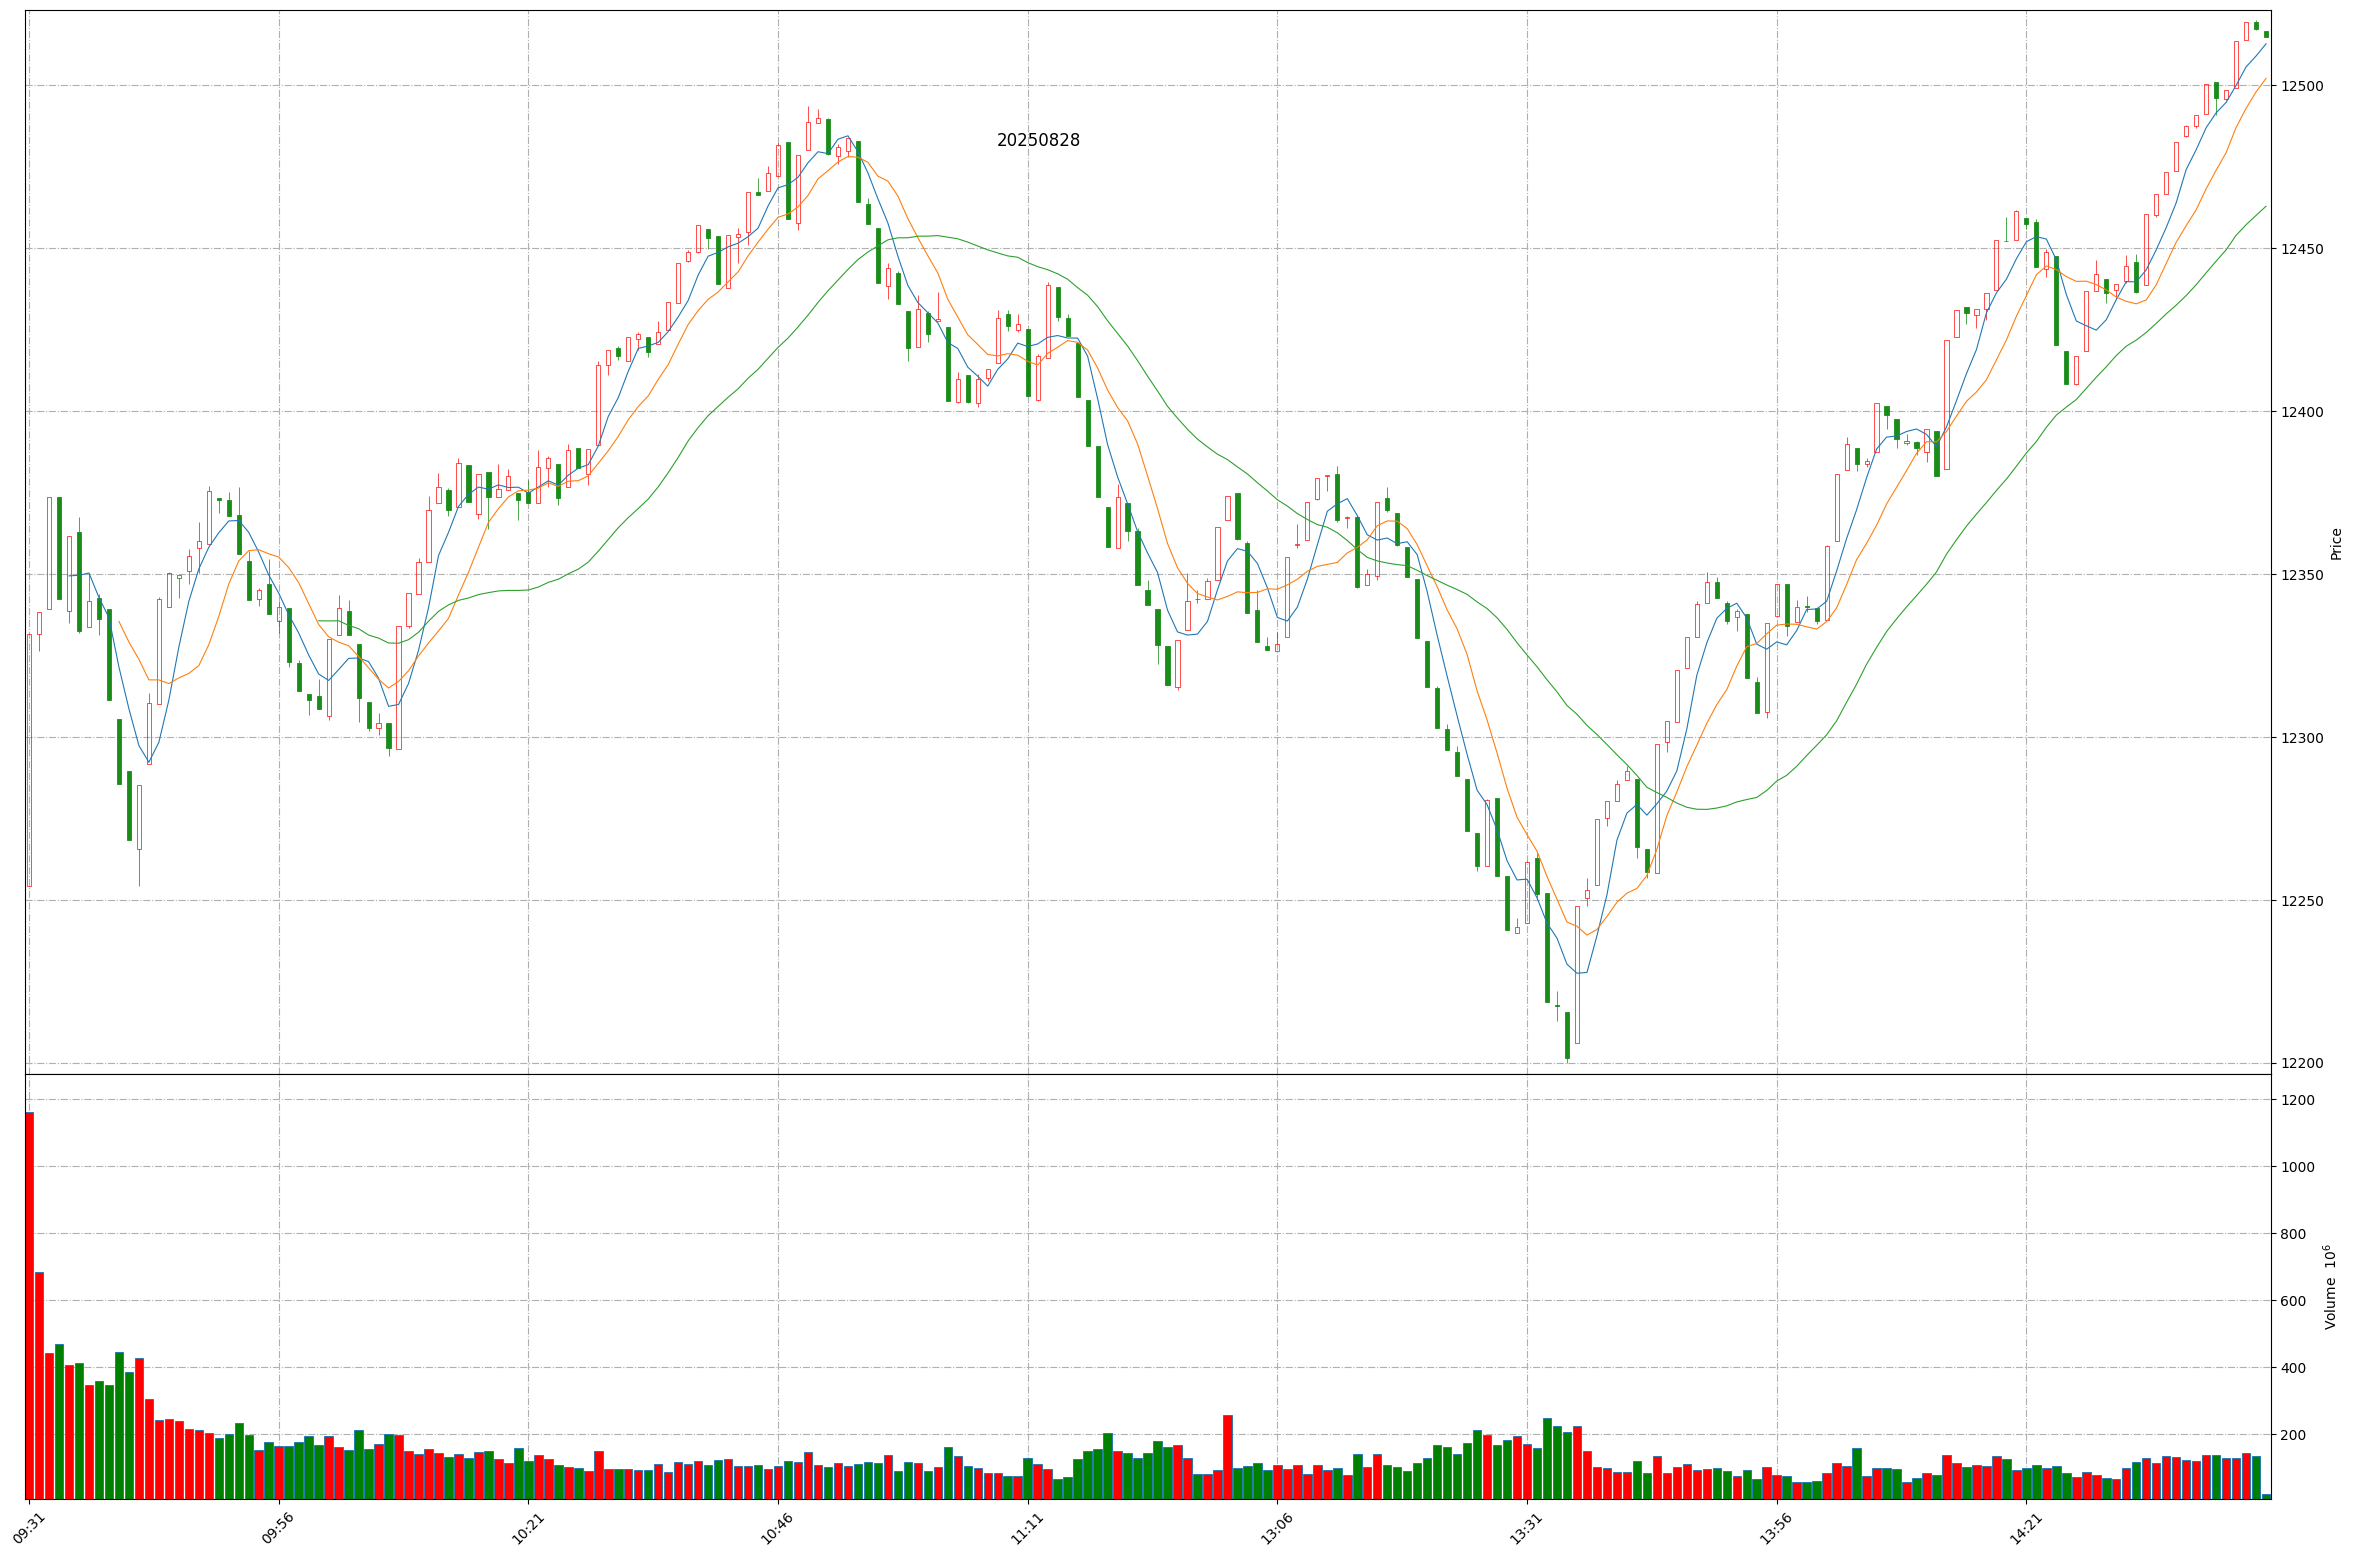
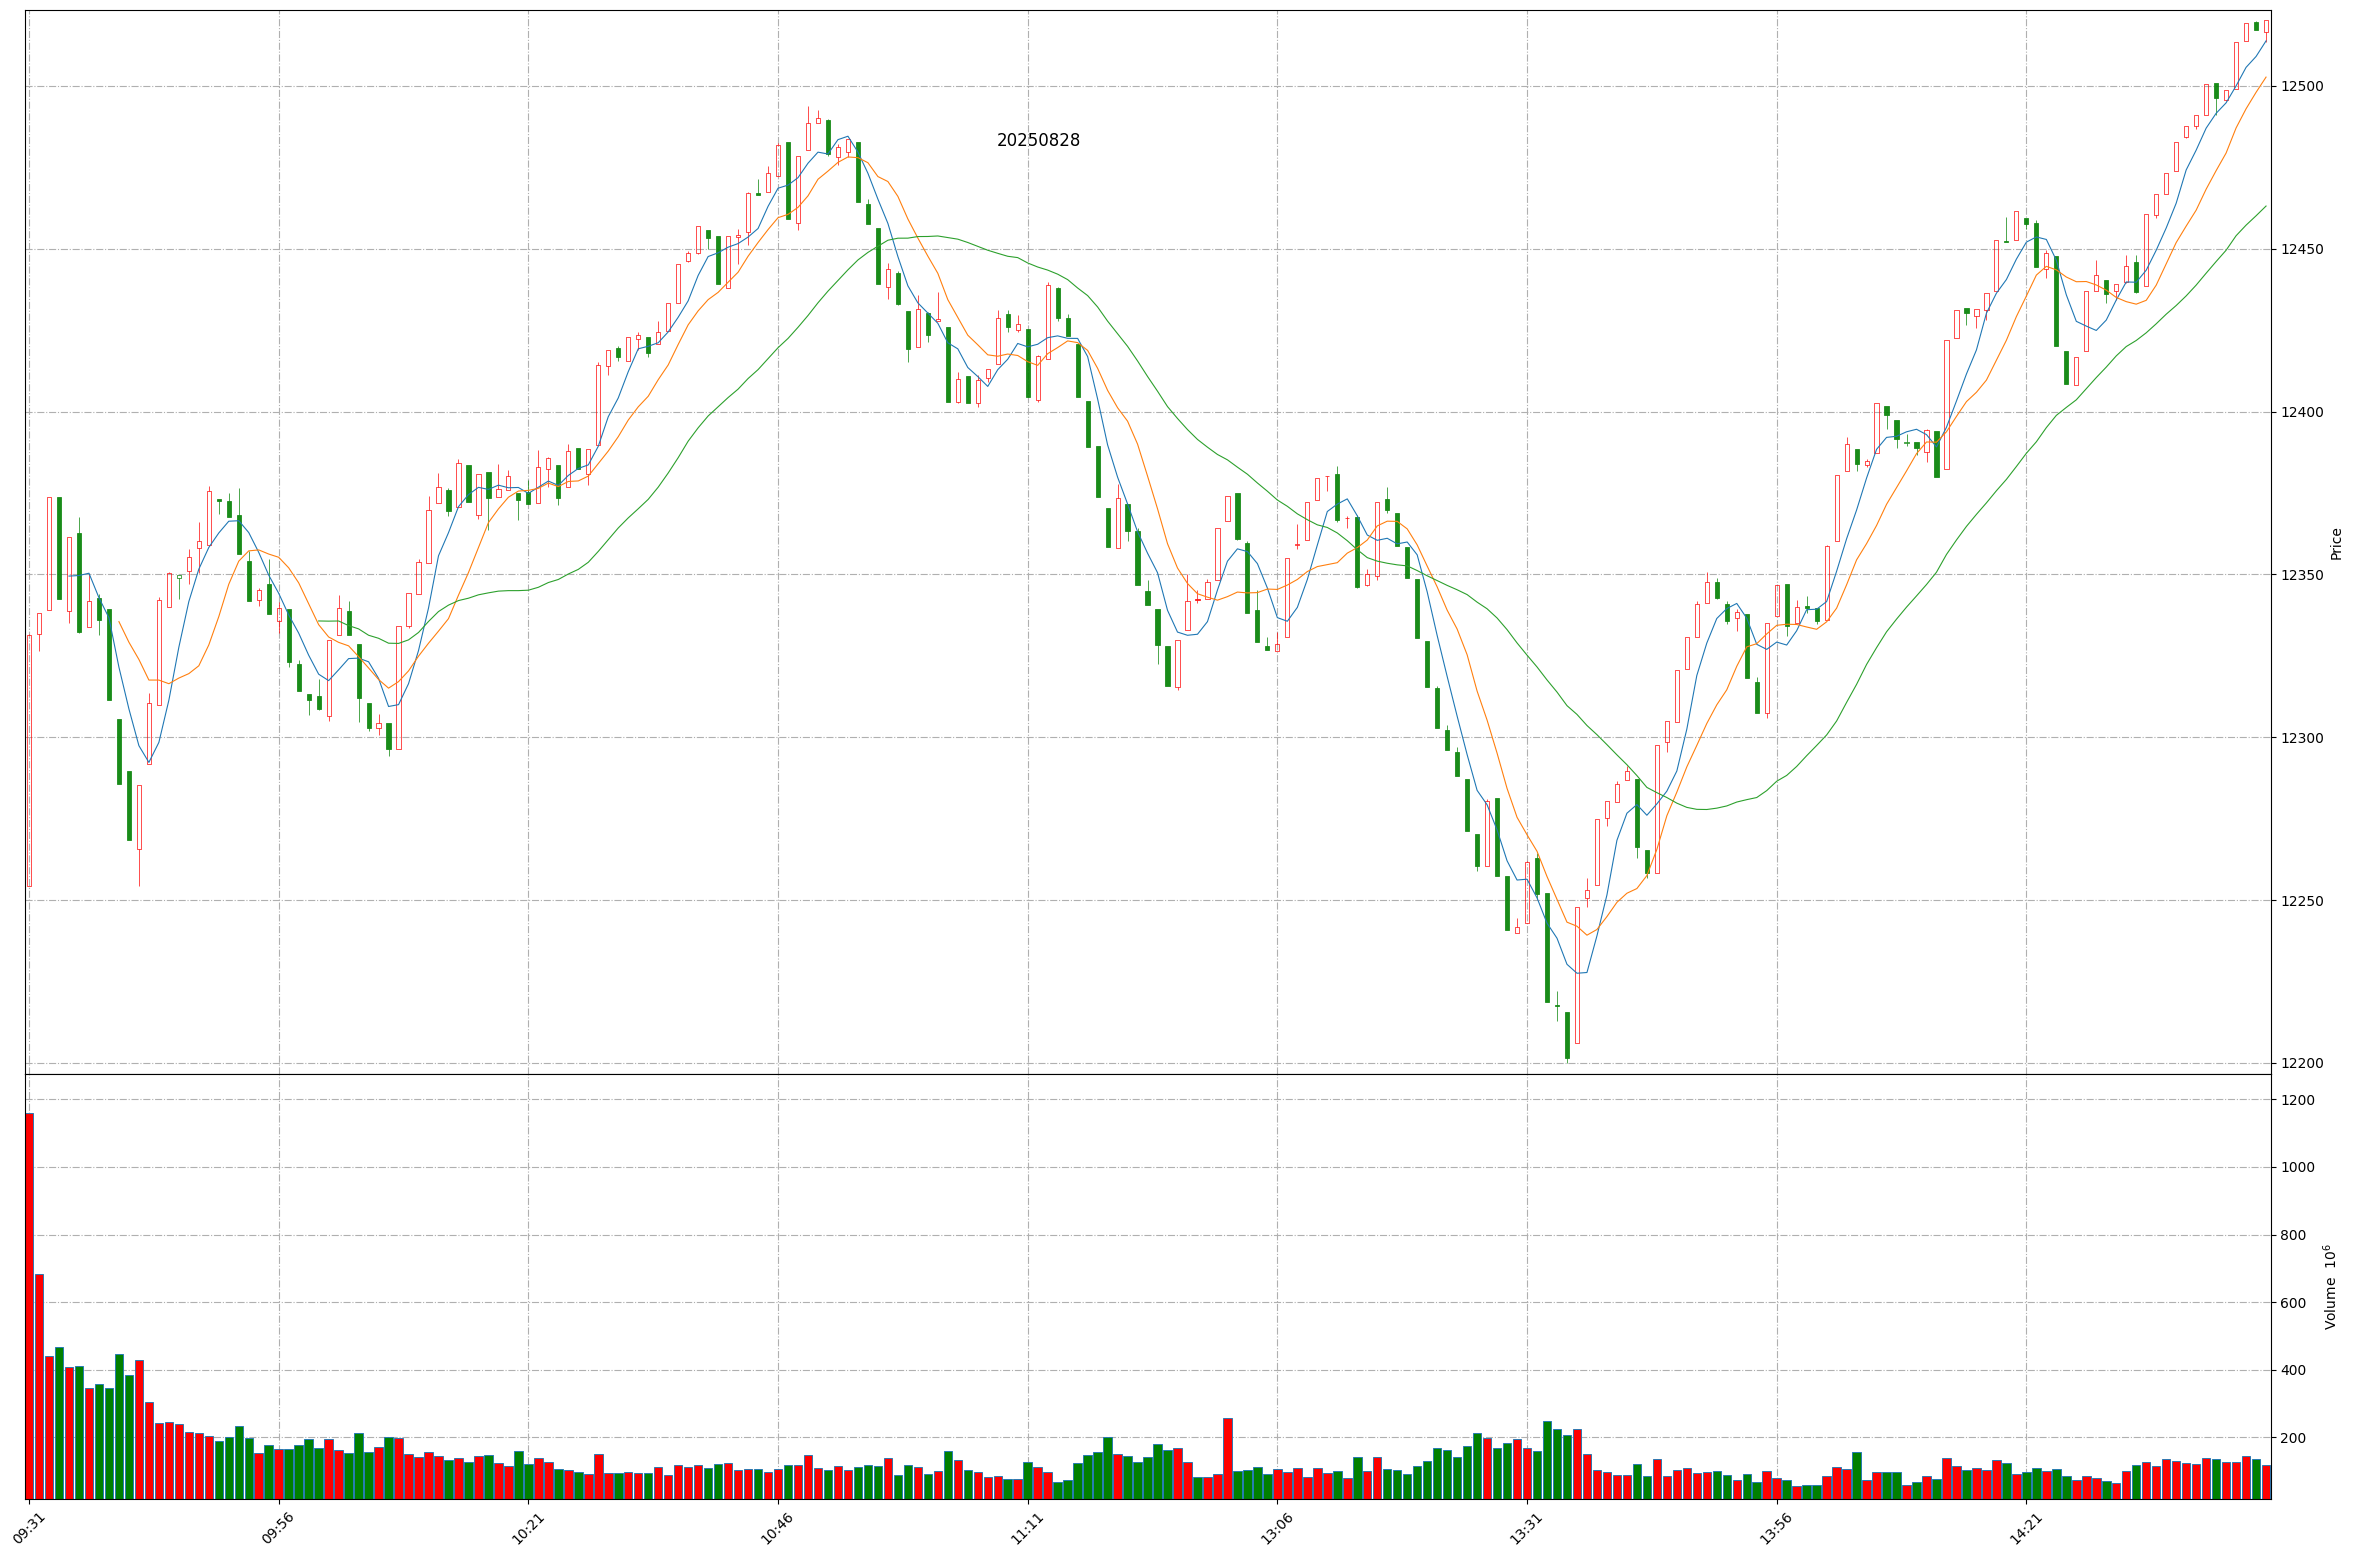
Github action update at 2025-08-28 14:46:05.

Changed region(s): [[0.3413, 0.0925, 0.3723, 0.1233]]

diff --git a/README.md b/README.md
@@ -1,11 +1,11 @@
 
 # Daily-A-share-market-quotes 每日 A 股指数（5min 更新）- 20250828
 
-### 上证指数 20250828 14:44
+### 上证指数 20250828 14:46
 ![](./fig/2025/8/20250828-sh000001.png)
 
-### 深证成指 20250828 14:44
+### 深证成指 20250828 14:46
 ![](./fig/2025/8/20250828-sz399001.png)
 
-### 北证50 20250828 14:44
+### 北证50 20250828 14:46
 ![](./fig/2025/8/20250828-bj899050.png)
